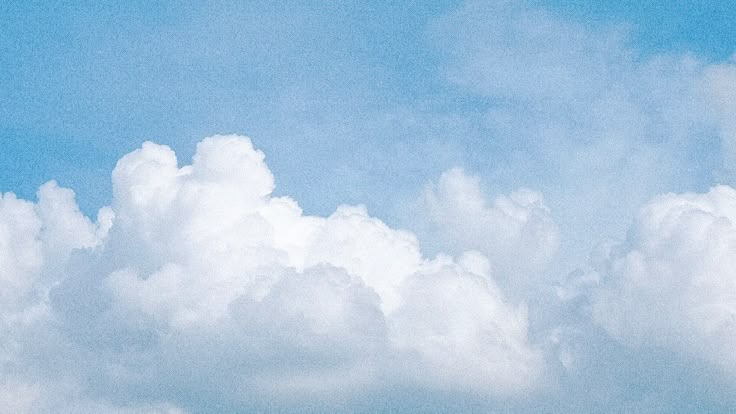
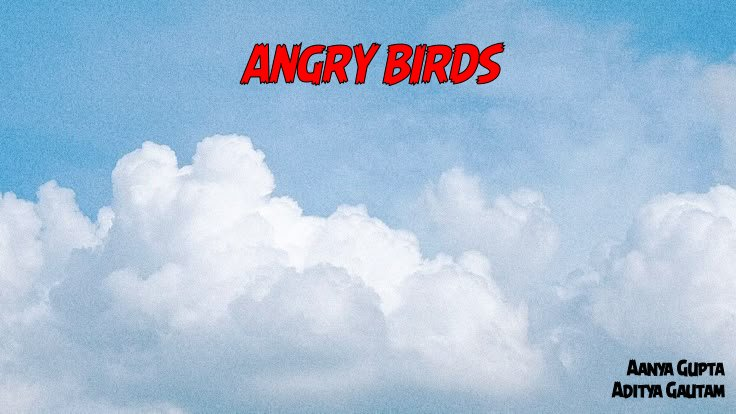
changed the starting page and added credits

Changed region(s): [[0.3125, 0.087, 0.6875, 0.2029], [0.8125, 0.8696, 1.0, 0.9855]]

diff --git a/src/core/src/main/java/com/angrybirds/MainMenuScreen.java b/src/core/src/main/java/com/angrybirds/MainMenuScreen.java
@@ -7,16 +7,18 @@ import com.badlogic.gdx.graphics.Color;
 import com.badlogic.gdx.graphics.GL20;
 import com.badlogic.gdx.graphics.Texture;
 import com.badlogic.gdx.graphics.g2d.BitmapFont;
+import com.badlogic.gdx.graphics.g2d.TextureRegion;
 import com.badlogic.gdx.graphics.g2d.freetype.FreeTypeFontGenerator;
 import com.badlogic.gdx.scenes.scene2d.InputEvent;
 import com.badlogic.gdx.scenes.scene2d.Stage;
 import com.badlogic.gdx.scenes.scene2d.ui.Image;
+import com.badlogic.gdx.scenes.scene2d.ui.ImageButton;
 import com.badlogic.gdx.scenes.scene2d.ui.Label;
 import com.badlogic.gdx.scenes.scene2d.ui.Skin;
 import com.badlogic.gdx.scenes.scene2d.ui.Table;
 import com.badlogic.gdx.scenes.scene2d.ui.TextButton;
 import com.badlogic.gdx.scenes.scene2d.utils.ClickListener;
-import com.badlogic.gdx.utils.Align;
+import com.badlogic.gdx.scenes.scene2d.utils.TextureRegionDrawable;
 import com.badlogic.gdx.utils.viewport.ExtendViewport;
 import com.badlogic.gdx.utils.viewport.Viewport;
 
@@ -57,7 +59,7 @@ public class MainMenuScreen extends ScreenAdapter {
         skin.get(TextButton.TextButtonStyle.class).font = button_font;  // Set default TextButton style font
 
         // background image
-        bg_img_texture = new Texture("img/vecteezy_background-for-presentation-green-grass-with-flower-under_17308322-1.jpg");
+        bg_img_texture = new Texture("img/clouds_2.jpg");
         bg_img = new Image(bg_img_texture);
         bg_img.setSize(960, 540);
 
@@ -66,25 +68,19 @@ public class MainMenuScreen extends ScreenAdapter {
         table.setFillParent(true);
         stage.addActor(bg_img);
         stage.addActor(table);
-
-        // main title
-        Label main_title = new Label("Angry Birds", skin, "title");
-        main_title.setAlignment(Align.center);
-        table.padTop(20);
-        table.add(main_title).center().padBottom(50).width(350).height(100);
-        table.row();
+        table.padTop(100);
 
         // buttons
-        button_add("Play").addListener(new ClickListener(){
+        button_add("img/main_menu_play.png").addListener(new ClickListener(){
             @Override
             public void clicked(InputEvent event, float x, float y) {
                 game.setScreen(new LevelManagerScreen(game));
                 dispose();
             }
         });
-        button_add("Select Level");
-        button_add("Help");
-        button_add("Exit").addListener(new ClickListener(){
+        button_add("img/main_menu_select_level.png");
+        button_add("img/main_menu_help.png");
+        button_add("img/main_menu_exit.png").addListener(new ClickListener(){
             @Override
             public void clicked(InputEvent event, float x, float y) {
                 Gdx.app.exit();
@@ -95,12 +91,8 @@ public class MainMenuScreen extends ScreenAdapter {
 
     }
 
-    private TextButton button_add(String button_text) {
-        TextButton button = new TextButton(button_text, skin);
-        button.padTop(10);
-        button.padBottom(10);
-        button.padLeft(20);
-        button.padRight(20);
+    private ImageButton button_add(String img_path) {
+        ImageButton button = new ImageButton(new TextureRegionDrawable(new TextureRegion(new Texture(img_path))));
         table.add(button).fillX().padBottom(10);
         table.row();
         return button;
